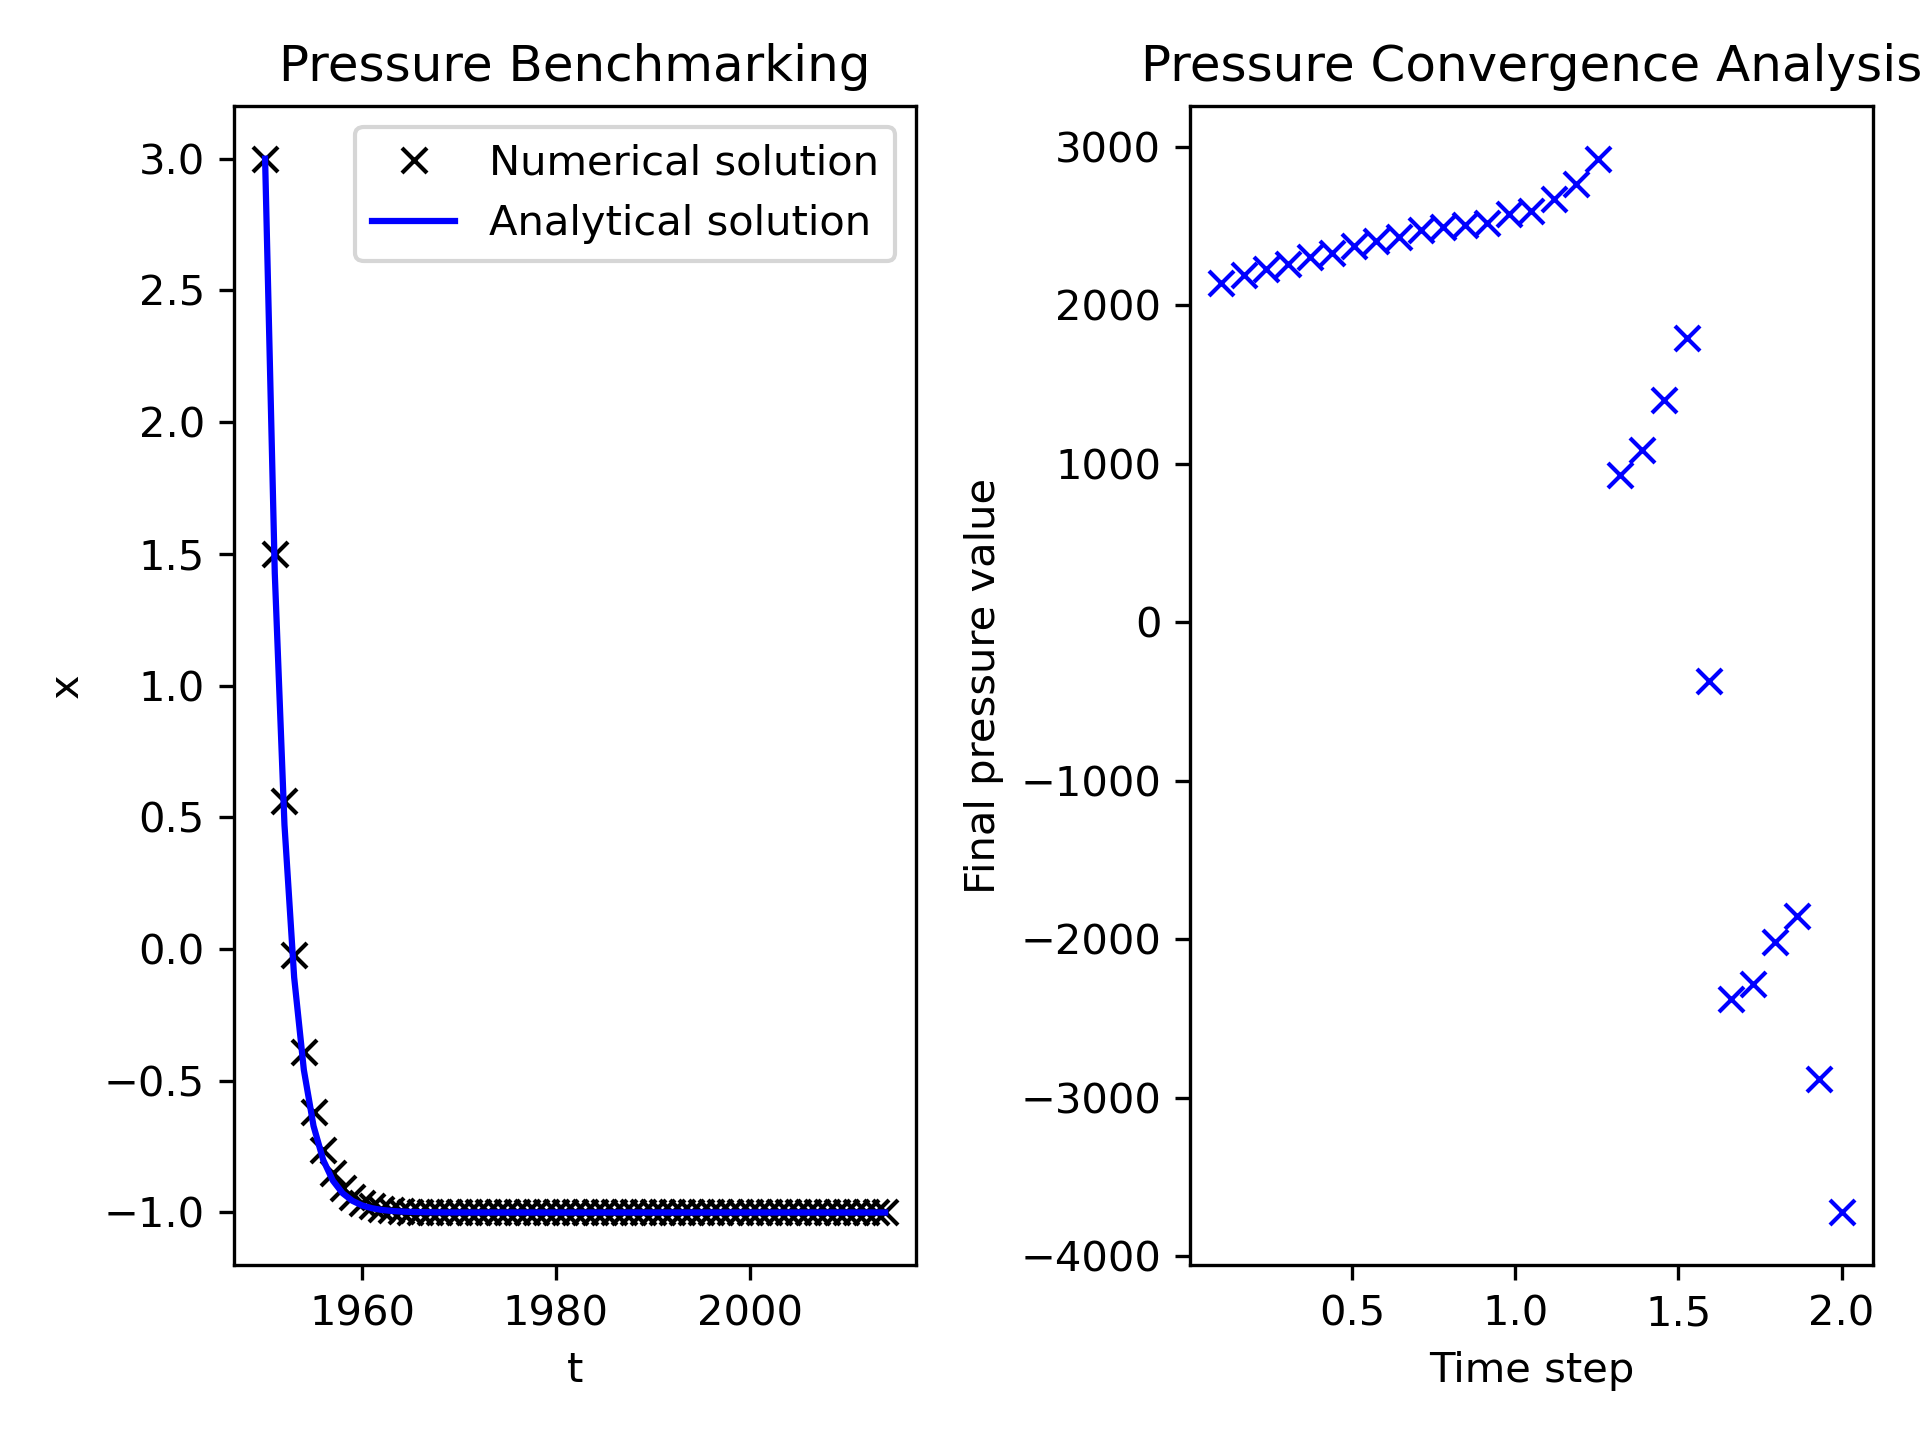
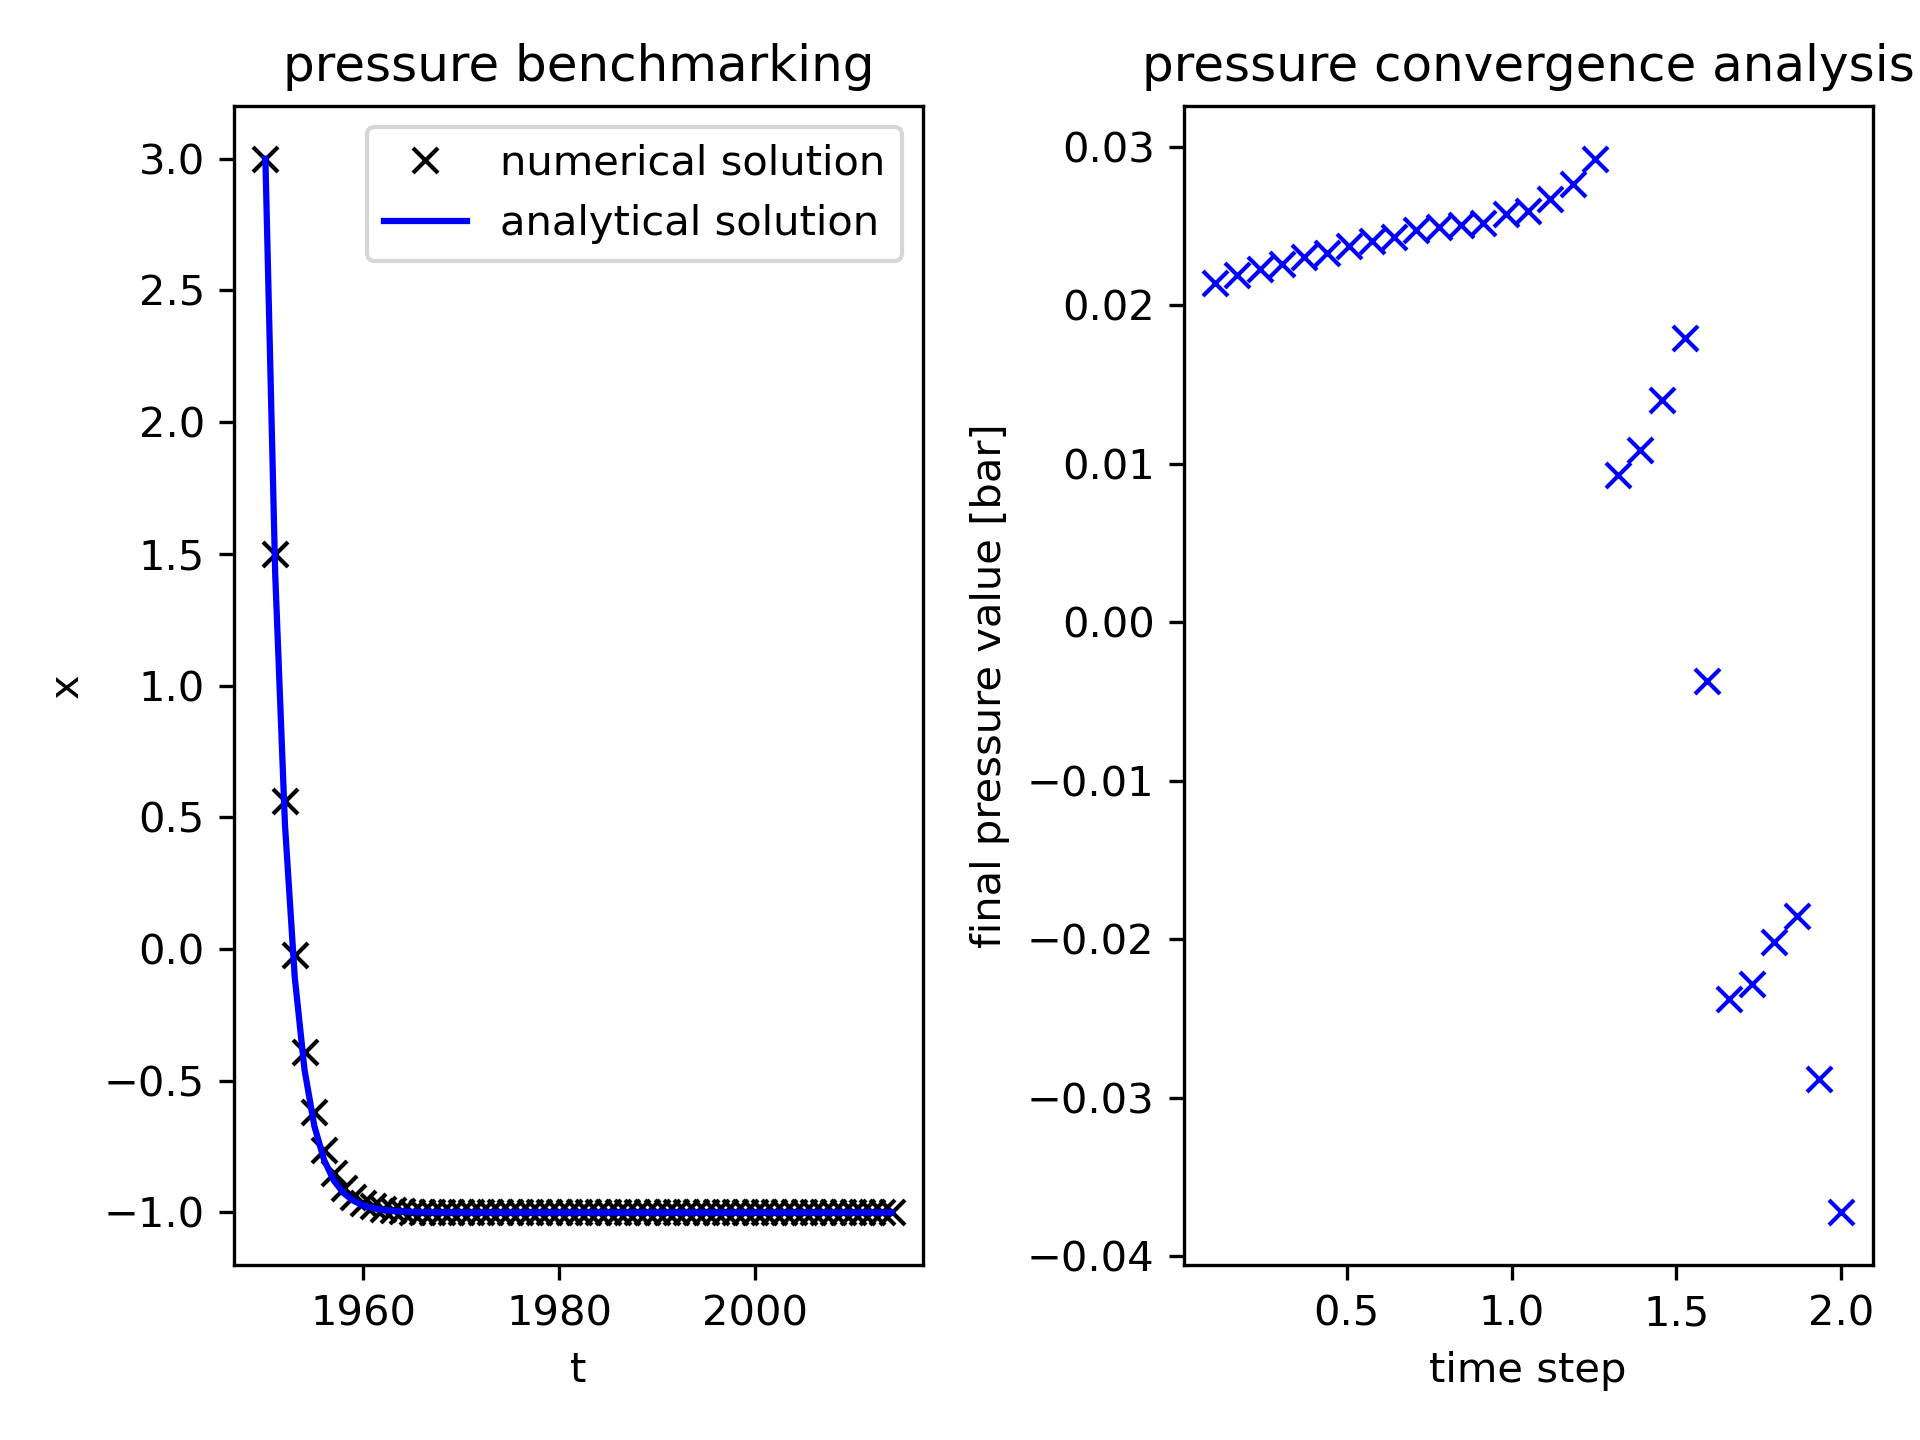
final

diff --git a/code/main.py b/code/main.py
@@ -425,14 +425,14 @@ if validation:
 
     # plotting of Numerical vs Analytical solution
     fig, axs = plt.subplots(1, 2)
-    ln1 = axs[0].plot(ts, y_num_p, 'kx', label='Numerical solution')
-    ln2 = axs[0].plot(ts, y_analytic_p, 'b-', label='Analytical solution')
+    ln1 = axs[0].plot(ts, y_num_p, 'kx', label='numerical solution')
+    ln2 = axs[0].plot(ts, y_analytic_p, 'b-', label='analytical solution')
     lns = ln1 + ln2
     labs = [l.get_label() for l in lns]
     axs[0].legend(lns, labs, loc='upper right')
     axs[0].set_ylabel('x')
     axs[0].set_xlabel('t')
-    axs[0].set_title('Pressure Benchmarking')
+    axs[0].set_title('pressure benchmarking')
 
     # convergence testing initialisation
     h_array = np.linspace(0.1, 2, 29)
@@ -448,13 +448,13 @@ if validation:
         t_values.append(h)
 
         # store the pressure at year 2014 in the y-array
-        p_values.append(p1[-1])
+        p_values.append(p1[-1]/100000)
 
     # plot pressure against different values of h
     axs[1].plot(t_values, p_values, 'bx')
-    axs[1].set_title('Pressure Convergence Analysis')
-    axs[1].set_xlabel('Time step')
-    axs[1].set_ylabel('Final pressure value')
+    axs[1].set_title('pressure convergence analysis')
+    axs[1].set_xlabel('time step')
+    axs[1].set_ylabel('final pressure value [bar]')
 
     # EITHER show the plot to the screen OR save a version of it to the disk
     if not save_figure:
@@ -487,14 +487,14 @@ if validation:
 
     # plotting of Numerical vs Analytical solution
     fig, axs = plt.subplots(1, 2)
-    ln1 = axs[0].plot(ts, y_num_t, 'kx', label='Numerical solution')
-    ln2 = axs[0].plot(ts, y_analytic_t, 'r-', label='Analytical solution')
+    ln1 = axs[0].plot(ts, y_num_t, 'kx', label='numerical solution')
+    ln2 = axs[0].plot(ts, y_analytic_t, 'r-', label='analytical solution')
     lns = ln1 + ln2
     labs = [l.get_label() for l in lns]
     axs[0].legend(lns, labs, loc='upper right')
     axs[0].set_ylabel('x')
     axs[0].set_xlabel('t')
-    axs[0].set_title('Temperature Benchmarking')
+    axs[0].set_title('temperature benchmarking')
 
     # convergence testing initialisation
     h_array = np.linspace(1, 15, 50)
@@ -516,9 +516,9 @@ if validation:
 
     # plot pressure against different values of h
     axs[1].plot(t_values, p_values, 'rx')
-    axs[1].set_title('Temperature Convergence Analysis')
-    axs[1].set_xlabel('Time step')
-    axs[1].set_ylabel('Final temperature value')
+    axs[1].set_title('temperature convergence analysis')
+    axs[1].set_xlabel('time step')
+    axs[1].set_ylabel('final temperature value [bar]')
 
     # EITHER show the plot to the screen OR save a version of it to the disk
     if not save_figure:
@@ -704,17 +704,17 @@ if uncertainty:
         temp_hold, pressure_hold = p.solve_ode(p.ode_model, time0, time2, dt_p, x0_p, 'HALF', pars=[pi[0], pi[1], pi[2], p0])
         ax.plot(temp_hold[64:], pressure_hold[64:] / 100000, 'y-', alpha=0.2, lw=0.5, label='halved extraction')
 
-    v = 0.03
+    v = 0.01
     wl = (wl * 997 * 9.81) - 2909250 + 5000
 
-    ax.errorbar(twl, wl / 100000, yerr=v, fmt='ro', label='data')
+    ax.errorbar(twl, wl / 100000, yerr=v, fmt='bo', label='data')
 
     handles, labels = ax.get_legend_handles_labels()
     unique = [(h, l) for i, (h, l) in enumerate(zip(handles, labels)) if l not in labels[:i]]
     ax.legend(*zip(*unique))
     ax.set_ylabel('pressure [bar]')
     ax.set_xlabel('time [yr]')
-    ax.set_title('pressure forecast with uncertainty')
+    ax.set_title('pressure LPM: scenario uncertainty')
 
     # EITHER show the plot to the screen OR save a version of it to the disk
     if not save_figure:
@@ -787,7 +787,7 @@ if uncertainty:
     ax.legend(*zip(*unique))
     ax.set_ylabel('temperature [degC]')
     ax.set_xlabel('time [yr]')
-    ax.set_title('temperature forecast with uncertainty')
+    ax.set_title('temperature LPM: scenario uncertainty')
 
     # EITHER show the plot to the screen OR save a version of it to the disk
     if not save_figure:
